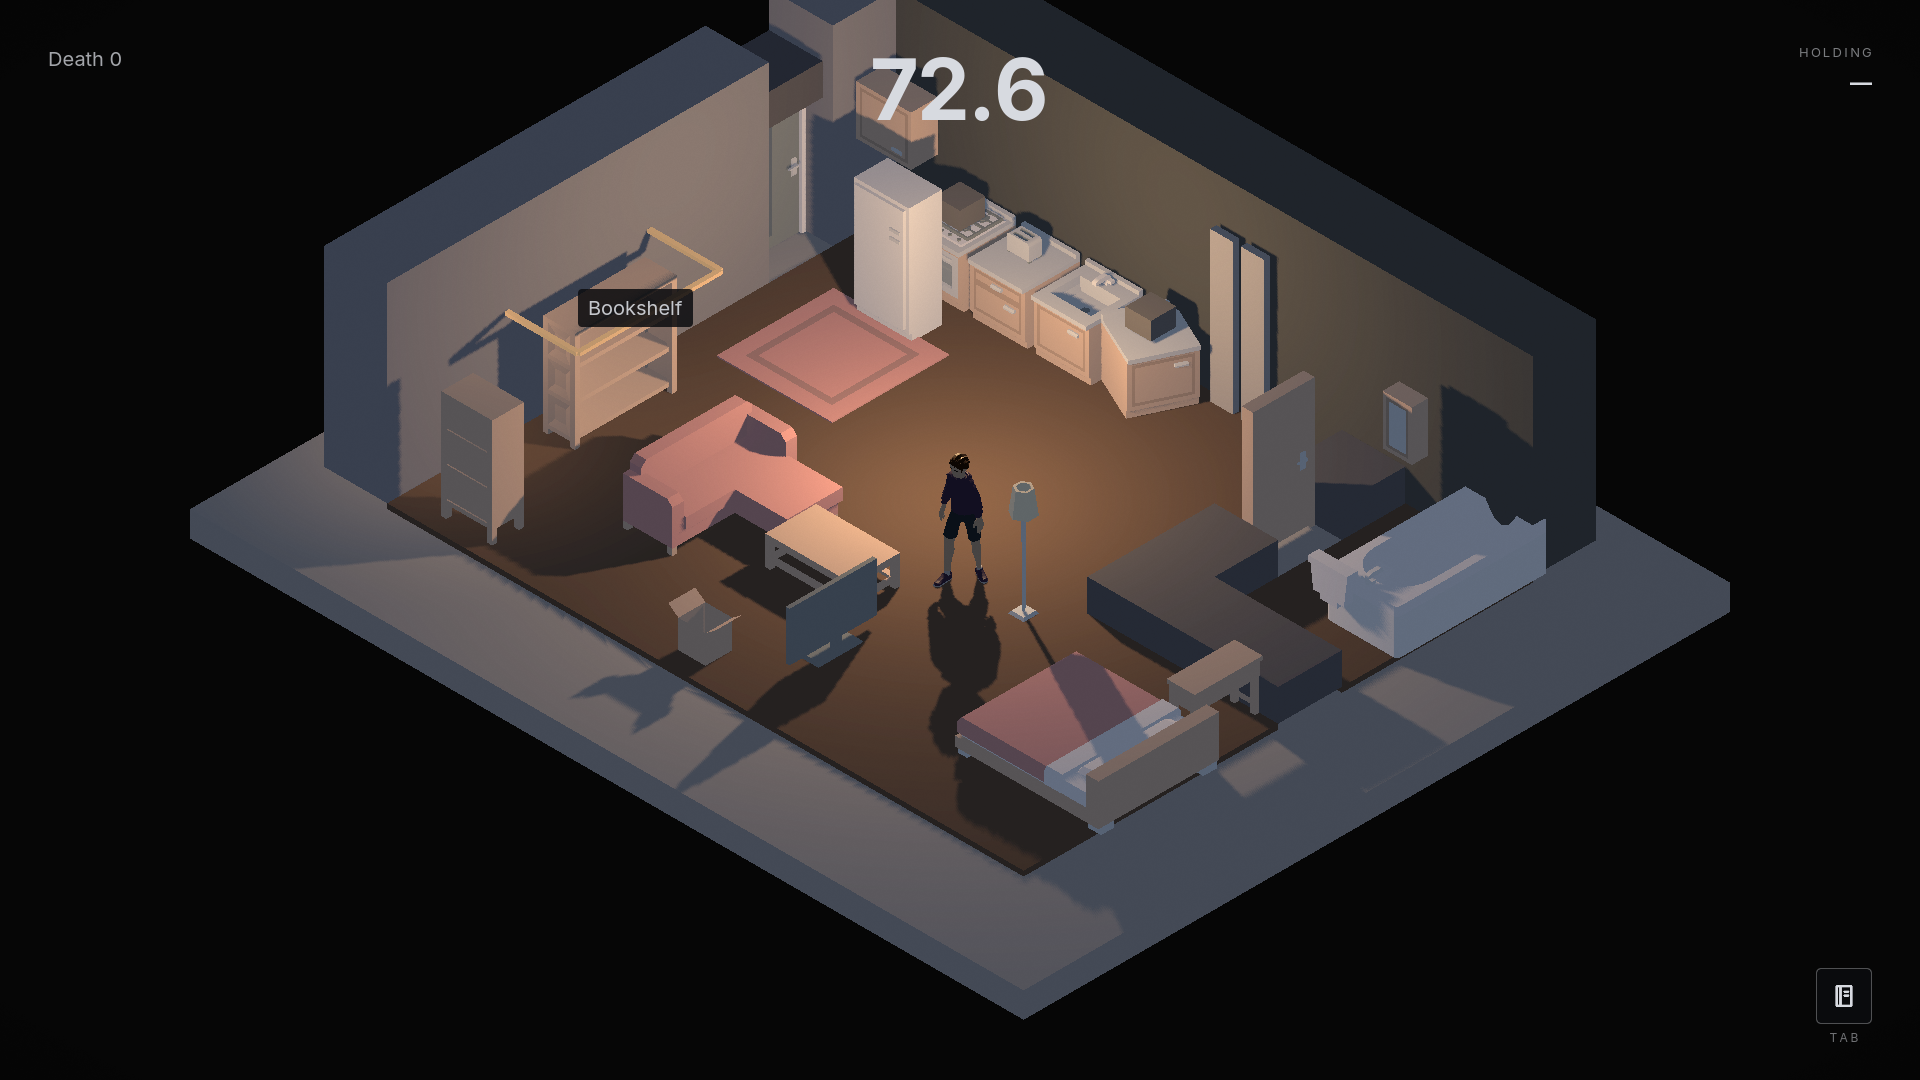
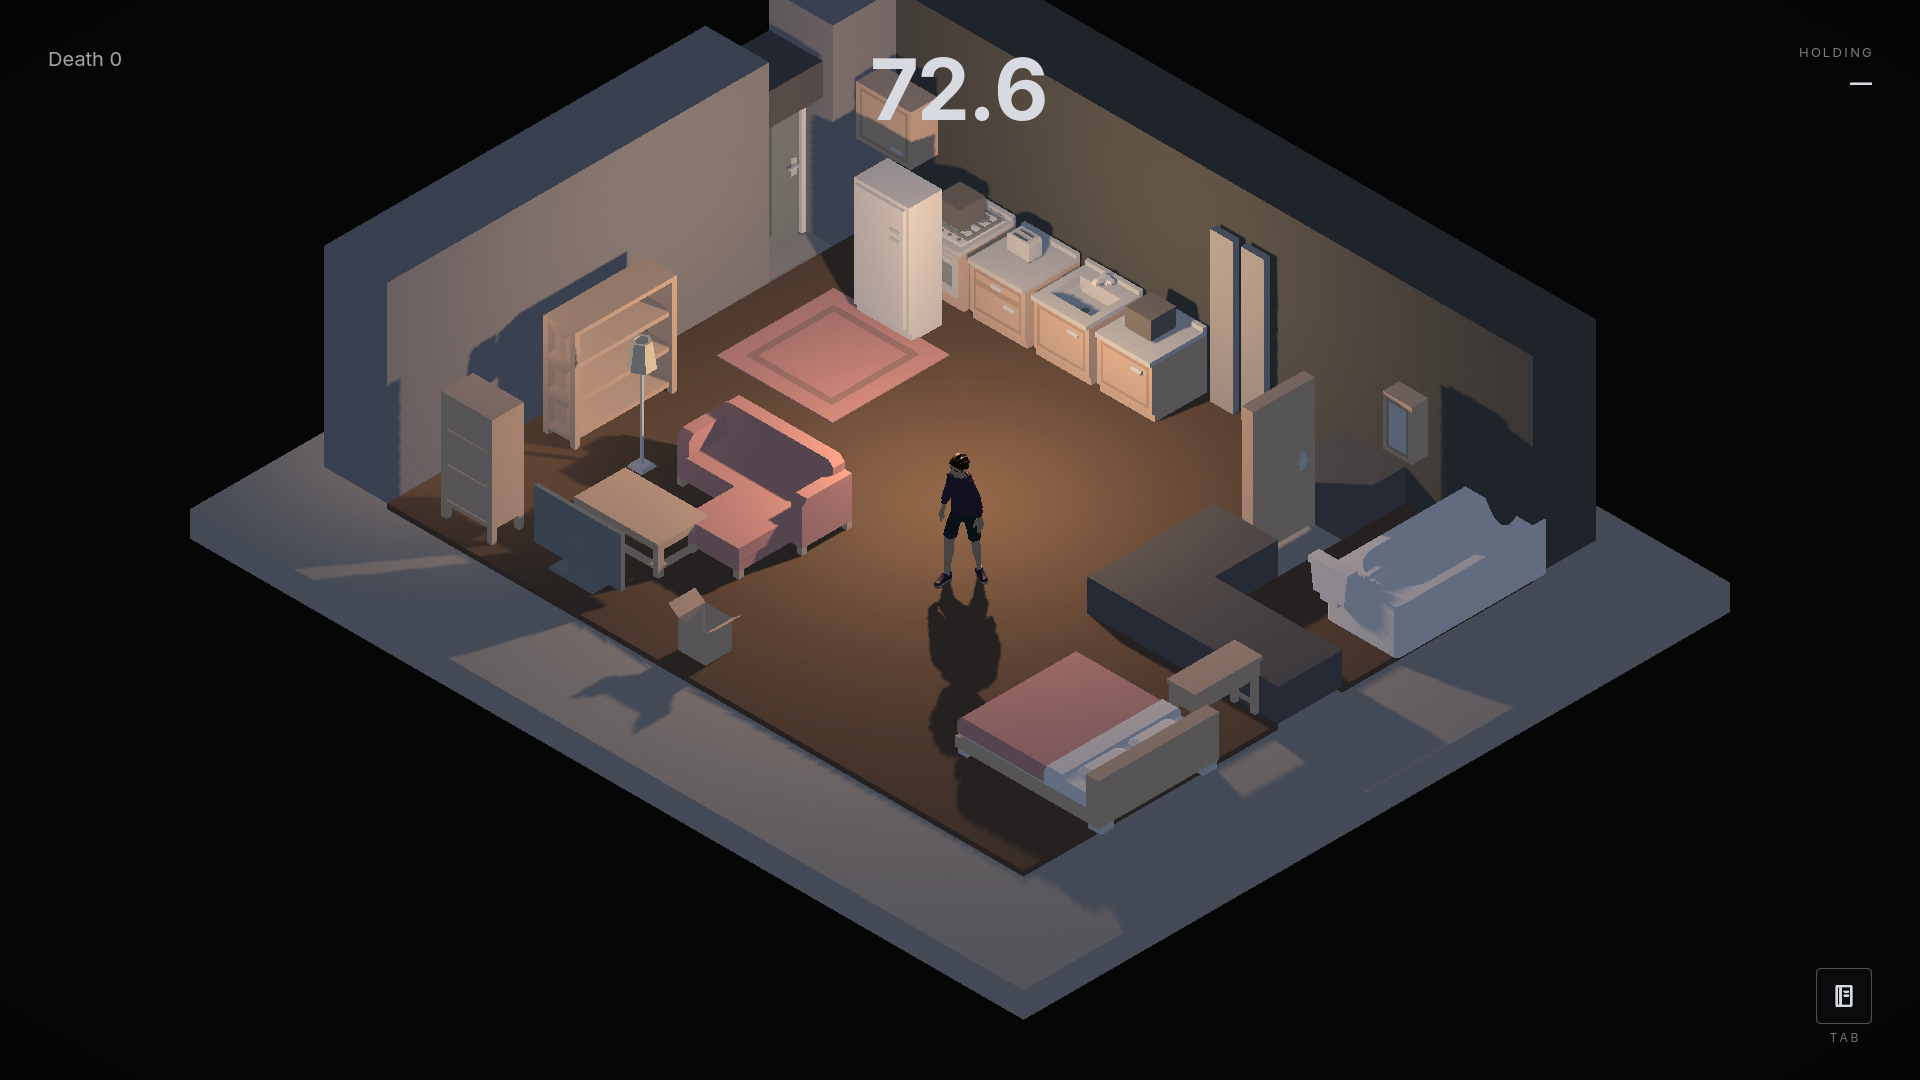
A layout standard, and a lint that holds every room to it
Bob, sixth playtest: "the fridge is in front of the stove. A fridge should
always be against a wall. The table the knife block is on is crooked. The lamp
is in the middle of the room. Can you find and onboard an authoritative resource
on furniture placement so the rooms are laid out in a more practical way?"

docs/08-room-layout.md is that resource, read and converted. The kitchen figures
come from the NKBA Kitchen and Bath Planning Guidelines, 5th edition — work
triangle legs of 4 to 9 feet and 26 feet total, a 42 inch work aisle, a 36 inch
walkway, 15 inches of landing beside a refrigerator, never a cooking surface
under an operable window. The living and bedroom figures come from furniture
spacing guides that agree with each other and with Neufert: 14 to 18 inches from
sofa to coffee table, 24 to 36 inches beside a bed, 36 inches in front of
anything you open. Every one is converted to this game's grid, where a square is
a metre. Sources are listed in the doc.

tools/lint_room.gd now enforces four of them. A fixture touches a wall. Nothing
faces into a wall. Anything you open at arm's length has somewhere to stand.
Nothing is marooned in the middle of the floor. `fixture` is a tag, so which
objects those are is content, not code.

The three specific faults:

The knife block was crooked because `state_visual.open` rotated the whole object
65 degrees — a stand-in for a hinged door that works on a box and turns a real
[…]

diff --git a/docs/08-room-layout.md b/docs/08-room-layout.md
@@ -1,0 +1,80 @@
+# 08 — Room layout: how furniture is placed
+
+Bob, sixth playtest: *"The fridge is in front of the stove. A fridge should always be against a wall. The table the knife block is on is crooked. The lamp is in the middle of the room."*
+
+He was right three times, and the third one is the tell: none of this was decided, it accumulated. This is the standard Room 1 and every room after it is held to, where it comes from, and which parts `tools/lint_room.gd` enforces so the next room cannot repeat it.
+
+---
+
+## Where the numbers come from
+
+| source | what it gives us | note |
+|---|---|---|
+| **NKBA Kitchen & Bath Planning Guidelines**, 5th edition | kitchen clearances, work triangle, landing areas | the North American standard for kitchen planning; the guidelines themselves are a paid document, and the figures below come from published summaries of them |
+| Furniture spacing guides (living room, bedroom) | sofa-to-table, bed clearance, dresser clearance, walkway widths | these agree with each other and with Neufert / Metric Handbook conventions |
+
+Sources consulted, 14 Sept 2026:
+
+- [NKBA — Kitchen and Bath Planning Guidelines](https://nkba.org/planning-guidelines/) (the guidelines themselves; numbers not published free)
+- [Kitchen Design Guidelines & Clearances — NKBA Standards Explained](https://www.thewcsupply.com/pages/kitchen-design-guidelines-standard-clearances)
+- [Kitchen Layout and Floor Plan Recommendations From The NKBA](https://planforward.net/design-matters/kitchen-layout-and-floor-plan-recommendations-from-the-nkba)
+- [Furniture Spacing Guidelines: Room-by-Room Clearance Rules](https://www.roomsketch3d.com/learn/traffic-flow-spacing/furniture-spacing-guidelines)
+- [Furniture Clearance and Walkway Standards](https://roomsketch3d.com/help/dimensions/clearance-around-furniture)
+
+**One grid square is one metre**, set by `models.kenney.metres_per_unit` and checked in `tests/game/scale_test.gd`. Every figure below is converted to squares at that scale.
+
+---
+
+## The standard
+
+### Clearances
+
+| rule | standard | in squares | why it matters here |
+|---|---|---|---|
+| Walkway | 36 in / 91 cm | **1** | one free square is a corridor |
+| Kitchen work aisle, one cook | 42 in / 107 cm | **2** | a person and an open appliance door |
+| Doorway | 32 in / 81 cm | **1** | |
+| Sofa to coffee table | 14–18 in / 36–46 cm | **adjacent** | they touch on this grid; a square between them is a room away |
+| Bed, walking side | 24 in min, 36 in better | **1** | the other long side may be against a wall |
+| In front of a dresser or wardrobe | 36 in | **1** | you have to open it |
+| Conversation distance | 6–10 ft / 1.8–3 m | **2–3** | past that, two sofas are two rooms |
+
+### Kitchen
+
+- **Work triangle** — sink, cooking surface, refrigerator. Each leg 4–9 ft (**1–3 squares**), the three legs together no more than 26 ft (**8 squares**). Traffic should not cross it.
+- **Landing area** — 15 in beside the refrigerator, 12 in one side and 15 in the other of the cooking surface, 24 in and 18 in either side of the sink. On this grid that is **one counter square next to each**, which is what a run of cabinets gives for free.
+- **Never put the cooking surface under an operable window.**
+- The refrigerator door has to open. It needs a free square in front of it, and it belongs at the **end** of a run, not in the middle of the floor.
+
+### Placement, stated as rules
+
+1. **Fixtures go against a wall.** A cooker, a sink, a counter, a fridge, a wardrobe, a bookcase, a bath, a lavatory, a bed. If it is heavy and nobody moves it daily, one of its squares touches a wall.
+2. **Fronts face the room.** A cabinet with its doors to the wall is a box. This is a rendering fact as much as a realism one — it is what made Room 1 unreadable for three playtests.
+3. **Everything opens into a free square.** A fixture with no walkable square in front of it cannot be used and cannot be understood.
+4. **Nothing is marooned.** Furniture touches a wall or touches other furniture. A floor lamp alone in the middle of the carpet reads as a mistake, because it is one.
+5. **Groups are groups.** Sofa, table and television belong on one axis, within conversation distance.
+
+---
+
+## What the lint checks
+
+`godot --headless -s tools/lint_room.gd` fails the build on the first three, and warns on the fourth:
+
+| check | rule |
+|---|---|
+| `fixture-off-wall` | every object tagged `fixture` has a footprint square orthogonally touching a wall |
+| `faces-a-wall` | no object's front (from `mesh_yaw`, with the pack facing +Z at 0) points into a wall |
+| `no-room-to-use` | every `fixture` has a walkable square in front of it |
+| `marooned` *(warning)* | a non-carryable object touches neither a wall nor another non-carryable object |
+
+**Declared exceptions.** A room may carry `layout_exceptions: {"<object id>": "<reason>"}`. The check still runs and still reports, but a declared exception does not fail the build. The point is that a violation is either fixed or it is a decision somebody wrote down.
+
+---
+
+## Room 1's one declared exception
+
+`fridge` stands free at (2, 2) rather than against a wall.
+
+It is the object `evade_phone` pushes into the doorway square to brace the front door, and a push moves it exactly one square away from the player. Only two squares in this room can reach the doorway square in one push: (2, 2), which is free-standing, and (1, 3), which is against the west wall and is where the oil goes and where the bookshelf falls. Moving the fridge to (1, 3) was tried: **two of the three authored solutions stop verifying.**
+
+So it stays, and the reason is in the room file. The way out, if it matters enough later, is to re-author Room 1's entry — move the front door so that the square one push from it is a wall square. That is a room redesign, not a placement fix, and it is Bob's call.
